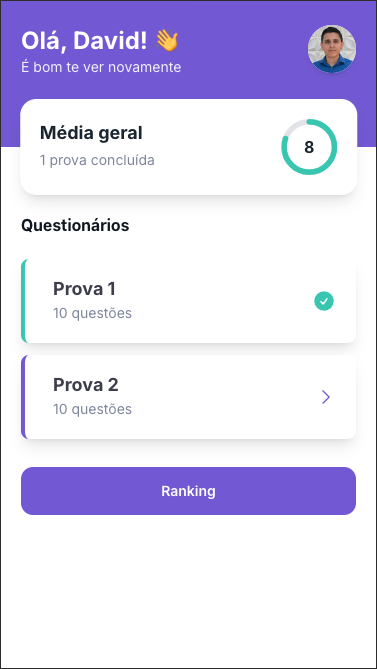
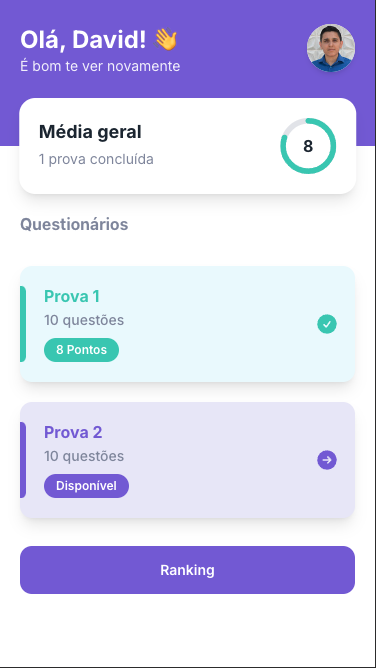
add novo visual ao component quiz card

diff --git a/src/components/QuizCard.vue b/src/components/QuizCard.vue
@@ -1,6 +1,6 @@
 <script setup>
 import { useRouter } from 'vue-router';
-import { CheckCircleIcon, ChevronRightIcon, XCircleIcon } from '@heroicons/vue/24/solid';
+import { CheckCircleIcon, ArrowRightCircleIcon, XCircleIcon } from '@heroicons/vue/24/solid';
 
 const props = defineProps({
   quiz: {
@@ -21,21 +21,50 @@ const goToQuiz = () => {
 <template>
   <div
     @click="goToQuiz"
-    class="quiz flex items-center justify-between gap-4 p-5 w-full rounded-lg bg-white shadow-lg border-l-4 transition cursor-pointer"
+    class="relative flex items-center justify-between w-full p-5 pl-6 pr-4 gap-4 rounded-xl shadow-lg transition cursor-pointer"
     :class="[
-      quiz.done ? 'border-success' : !quiz.available ? 'border-red-400' : 'border-primary',
+      quiz.done ? 'bg-success-light' : !quiz.available ? 'bg-red-100' : 'bg-primary-light',
       !quiz.available && !quiz.done ? 'opacity-60 cursor-not-allowed' : 'hover:shadow-md'
     ]"
   >
-    <div class="flex flex-col flex-1 pl-2">
-      <span class="text-lg font-bold text-dark leading-5">
+    <!-- Faixa lateral colorida -->
+    <div
+      class="absolute left-0 h-[65%] my-auto w-1.5 rounded-r-xl"
+      :class="quiz.done ? 'bg-success' : !quiz.available ? 'bg-red-400' : 'bg-primary'"
+    />
+
+    <div class="flex flex-col flex-1">
+      <!-- Título com cor dinâmica -->
+      <span
+        class="text-base font-bold leading-tight"
+        :class="quiz.done ? 'text-success' : !quiz.available ? 'text-red-400' : 'text-primary'"
+      >
         {{ quiz.description }}
       </span>
-      <span class="text-sm text-secondary font-normal mt-1">
+
+      <!-- Número de questões -->
+      <span class="text-sm text-secondary font-medium mt-1">
         {{ quiz.totalQuestions }} questões
+      </span>
+
+      <!-- Score com badge -->
+      <span
+        class="inline-block w-max text-xs font-semibold mt-2 px-3 py-1 rounded-full text-white"
+        :class="quiz.done
+          ? 'bg-success'
+          : !quiz.available
+            ? 'bg-red-400'
+            : 'bg-primary'"
+      >
+        {{ quiz.done
+          ? `${quiz.score} Pontos`
+          : !quiz.available
+            ? 'Indisponível'
+            : 'Disponível' }}
       </span>
     </div>
 
+    <!-- Ícones de status -->
     <CheckCircleIcon
       v-if="quiz.done"
       class="w-6 h-6 text-success"
@@ -44,9 +73,9 @@ const goToQuiz = () => {
       v-else-if="!quiz.available"
       class="w-6 h-6 text-red-400"
     />
-    <ChevronRightIcon
+    <ArrowRightCircleIcon
       v-else
-      class="w-5 h-5 text-primary"
+      class="w-6 h-6 text-primary"
     />
   </div>
 </template>

diff --git a/src/pages/Home.vue b/src/pages/Home.vue
@@ -98,7 +98,7 @@ onMounted(setupHome);
       size="md"
     />
 
-    <div v-else class="quizzes flex flex-1 flex-col items-start w-full gap-3 my-7">
+    <div v-else class="quizzes flex flex-1 flex-col items-start w-full gap-5 my-7">
       <Text
         class="leading-6 text-gray-900 mb-3"
         size="md"
